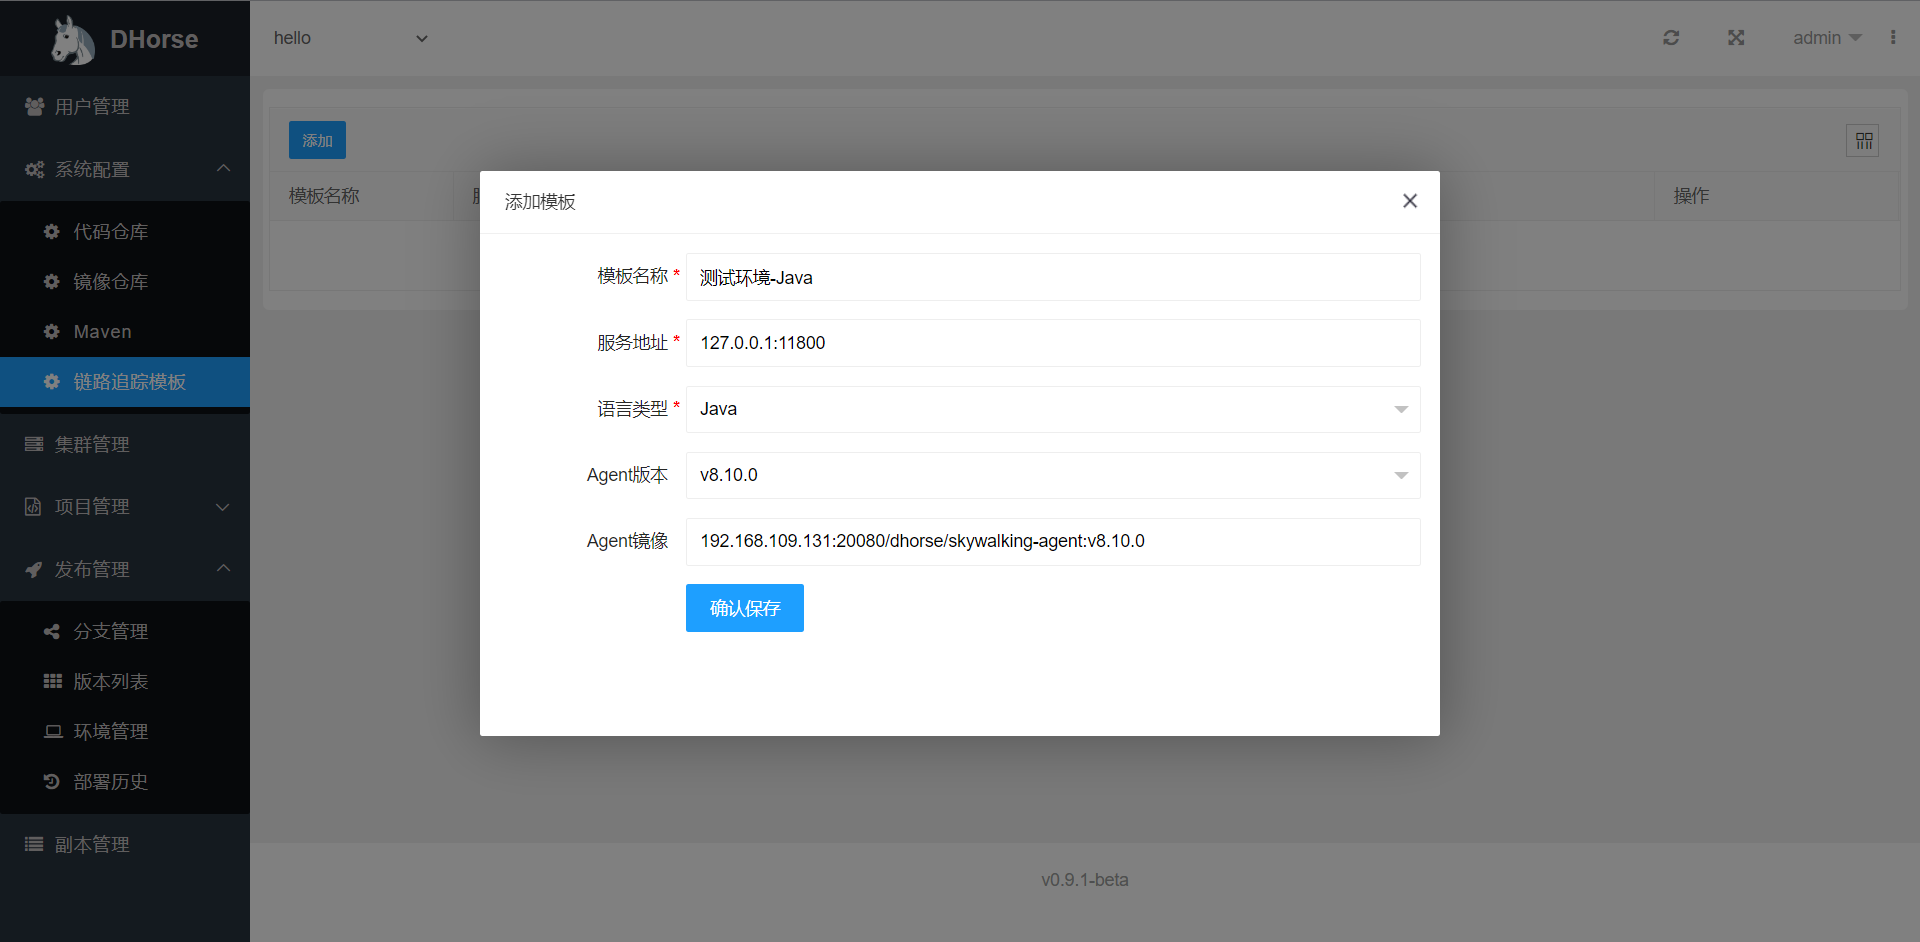
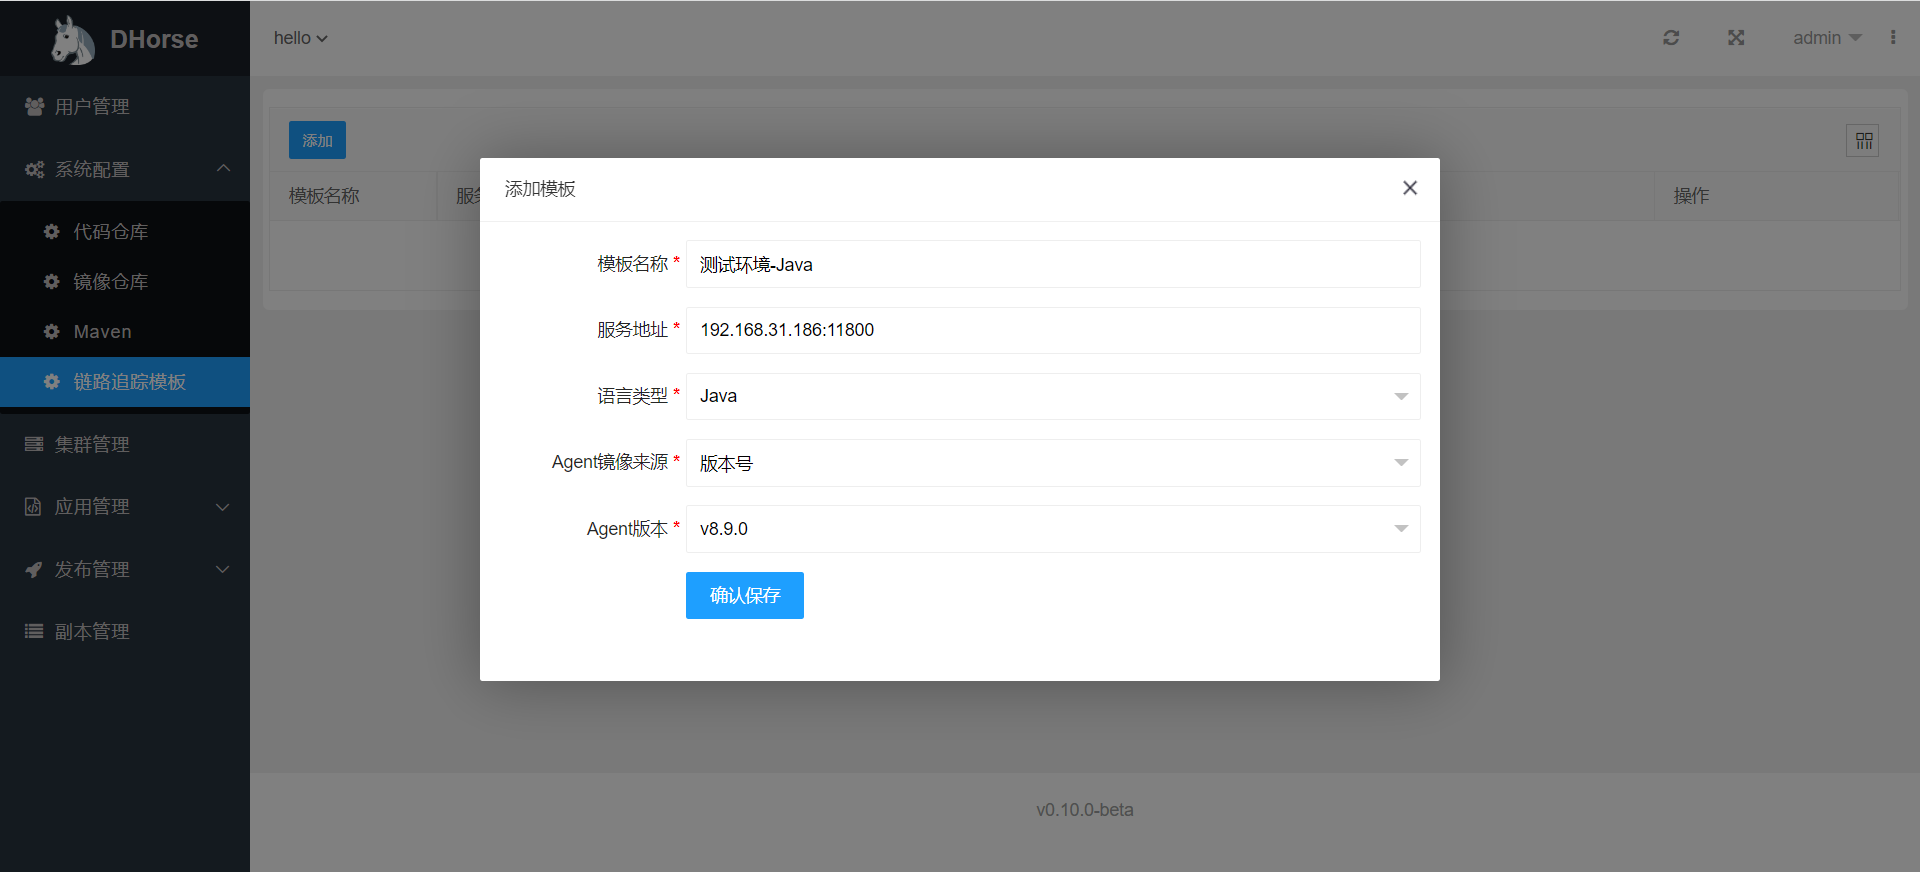
链路追踪

diff --git a/guide/链路追踪.md b/guide/链路追踪.md
@@ -1,16 +1,16 @@
-目前，DHorse的链路追踪功能是通过SkyWalking来实现。大致的实现原理是DHorse在部署应用时，通过指定SkyWalking的agent来收集服务之间的调用链路信息。那么DHorse是如何使用SkyWalking的agent呢？我们就先来看一下DHorse的操作。
+目前，DHorse的链路追踪功能是通过SkyWalking来实现。实现原理是DHorse在部署应用时，通过指定SkyWalking的Agent来收集服务的调用链路信息。下面就来具体看一下DHorse如何使用Agent的功能。
 
 ## 链路追踪配置
 
-在“系统配置”菜单，打开“链路追踪模板”菜单如图1所示：
+在“系统配置”菜单，打开“链路追踪模板”菜单，如图1所示：
 ![Image text](./image/trace_template_list.png)
 图1
 
-我们添加一个模板，如图2所示：
+点击“添加”按钮，进行添加模板，如图2所示：
 ![Image text](./image/add_trace_template.png)
 图2
 
-其中，服务地址是SkyWalking服务器的地址，Agent版本和Agent镜像其中一项有值即可。如图2中所示，如果两项都有值，则优先使用Agent镜像的值，如果选择了Agent版本，最好和SkyWalking服务器的版本保持一致。讲到这里，大家可能有些疑问，Agent版本和Agent镜像是两个风马牛不相及的东西，为什么可以归为到一类。答案是这样，如果选择了Agent版本，在保存之后，DHorse会在后台默认生成一个Agent镜像并上传到镜像仓库。看到没有，其实最终用的都是Agent镜像。那么又有一个疑问，该如何自定义一个Agent镜像呢？DHorse是不是对规则有一定的要求呢？答案是有要求，下面就来详细看一下制作过程。
+其中，“服务地址”是SkyWalking服务器的地址，Agent镜像来源选项有两个：版本号和自定义。如果选择了版本号，则在保存模板之后，DHorse会自动制作“Agent版本”项对应版本号的镜像文件，并自动上传到镜像仓库；如果选择了自定义，那么需要使用者手动制作Agent镜像并上传到仓库。对于手动制作的Agent镜像，DHorse是有规则要求的，下面就详细介绍。
 
 ## 制作Agent镜像
 
@@ -29,7 +29,7 @@ FROM busybox:latest
 COPY skywalking-agent/ /skywalking-agent
 ```
 
-4. 当前目录内容如下：
+4. 则/op/agent目录内容如下：
 
 ```shell
 -rw-r--r--  1 root  root 30119842 Apr 11  2022 apache-skywalking-java-agent-8.9.0.tgz
@@ -54,14 +54,14 @@ docker login -u admin -p admin 192.168.109.131:20080
 docker push 192.168.109.131:20080/dhorse/skywalking-agent:v8.9.0
 ```
 
-配置好链路追踪的模板以后，我们再来看看如何使用。
+添加链路追踪模板以后，再来看看如何使用。
 
-## 链路追踪使用
+## 使用链路追踪
 
 在“环境管理”菜单下，进行修改操作，开启链路追踪状态和选择链路追踪模板，如图3所示：
 ![Image text](./image/env_trace.png)
 图3
 
-保存修改之后，重新发布该环境的项目。然后请求该环境的服务，打开SkyWalking Web，在Trace的菜单下可以看到上报的链路信息，如图4所示：
+保存之后，重新发布该环境的应用，然后请求该环境的服务。打开SkyWalking Web，在Trace的菜单下可以看到上报的链路信息，如图4所示：
 ![Image text](./image/trace_info.png)
 图4

diff --git a/guide/操作手册.md b/guide/操作手册.md
@@ -58,7 +58,7 @@ kubectl create clusterrolebinding dhorse-cluster-admin --clusterrole=cluster-adm
 kubectl create token dhorse-admin -n kube-system
 ```
 
-也可以开启日志收集功能，但是首先需要在Dhorse的安装目录下修改conf/filebeat-k8s.yml文件，进行filebeat的配置。
+也可以开启日志收集功能，但是首先需要在Dhorse的安装目录下修改conf/filebeat-k8s.yml文件，进行filebeat的配置，可以参考[这里](https://github.com/tiandizhiguai/dhorse-doc/blob/main/guide/%E6%97%A5%E5%BF%97%E6%94%B6%E9%9B%86.md)。
 在“集群管理”菜单下，同时也提供了对命名空间管理的功能，如图5所示：
 ![Image text](./image/namespace_list.png)
 图5
@@ -129,9 +129,7 @@ kubectl create token dhorse-admin -n kube-system
 
 2. 通过负载均衡
 
-DHorse在部署应用以后，会为每个应用启动一个ClusterIP的service服务，那么就可以在副本里通过“应用名称.命名空间:服务端口”的形式来访问其他应用的服务，访问示例如：http://hello.default:8080/hello
-
-集群内服务之间的调用，推荐该方式。
+DHorse在部署应用以后，会为每个应用启动一个ClusterIP的service服务，那么就可以在副本里通过“应用名称.命名空间:服务端口”的形式来访问其他应用的服务，访问示例如：http://hello.default:8080/hello，集群内服务之间的调用，推荐该方式。
 
 ### 集群外访问
 
